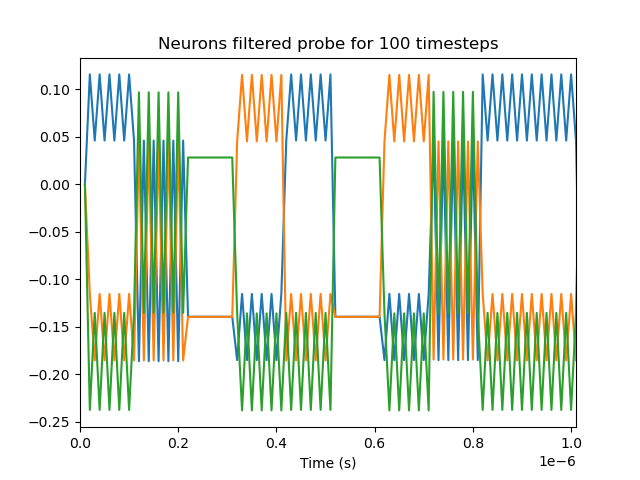
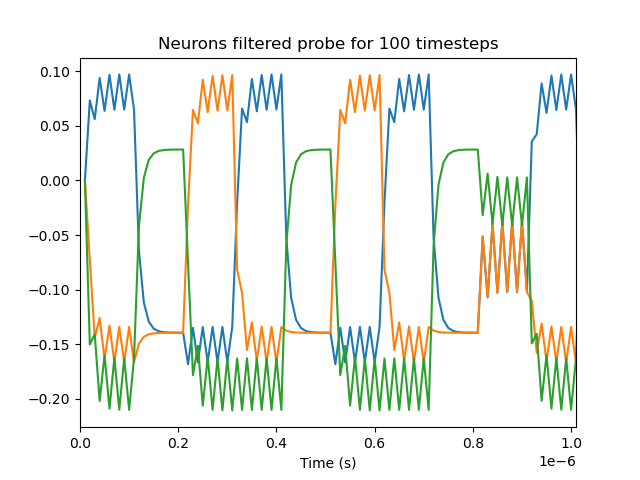
set filter probe synapse to 1e-8

Changed region(s): [[0.0312, 0.125, 0.9062, 0.875], [0.0625, 0.875, 0.125, 0.9062]]

diff --git a/two-layers.py b/two-layers.py
@@ -97,7 +97,7 @@ with model:
     #voltage = nengo.Probe(neurons.neurons, 'voltage')
     voltageL2 = nengo.Probe(neuronsL2.neurons, 'voltage')
     # Spikes filtered by a 10ms post-synaptic filter
-    filteredL2 = nengo.Probe(neuronsL2, synapse=1e-11)
+    filteredL2 = nengo.Probe(neuronsL2, synapse=1e-8)
     
 with nengo.Simulator(model, dt=1e-8) as sim:  # Create a simulator
     sim.run(1000000e-9)  # Run it for 10k nanosecond
